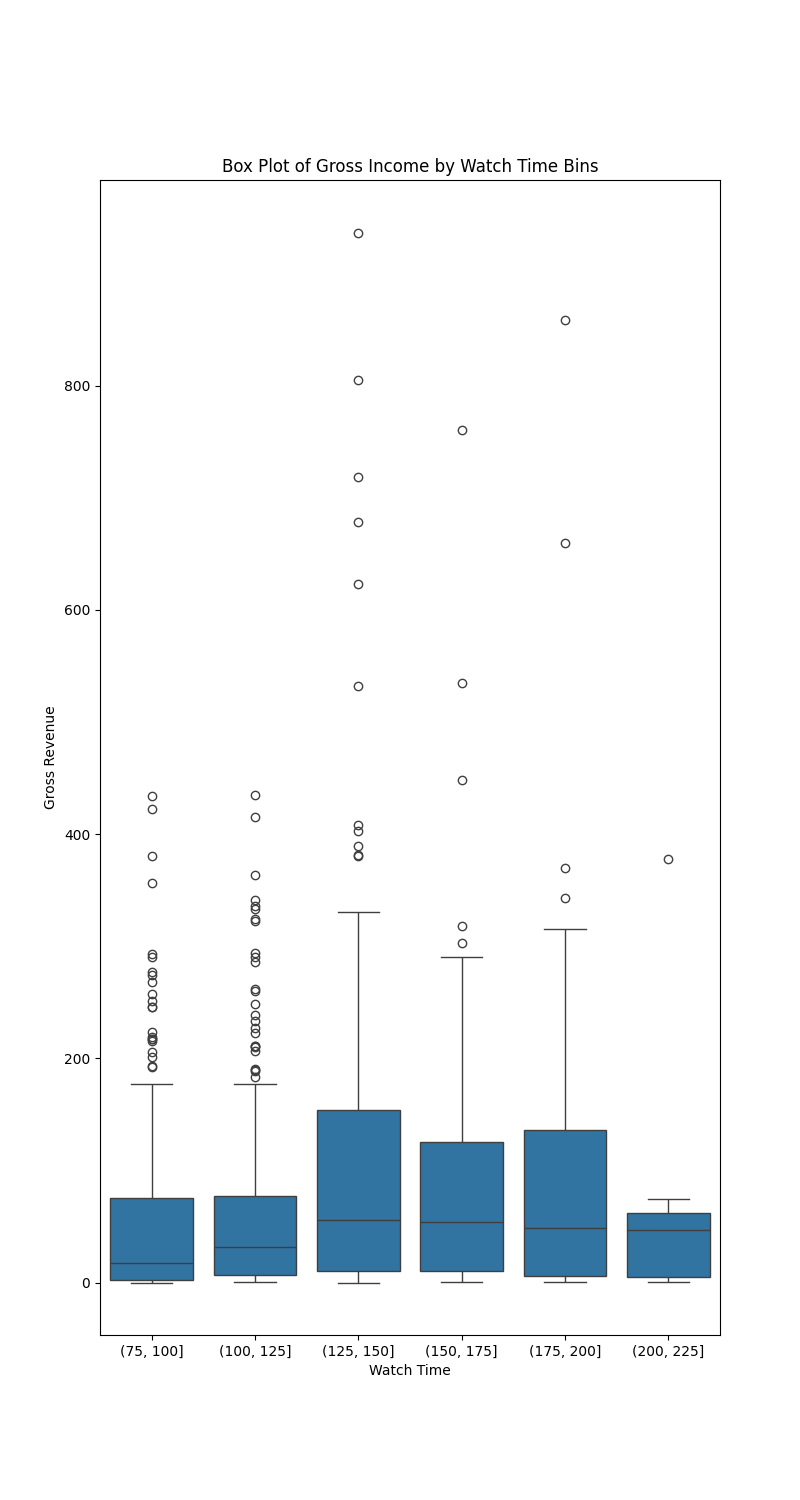
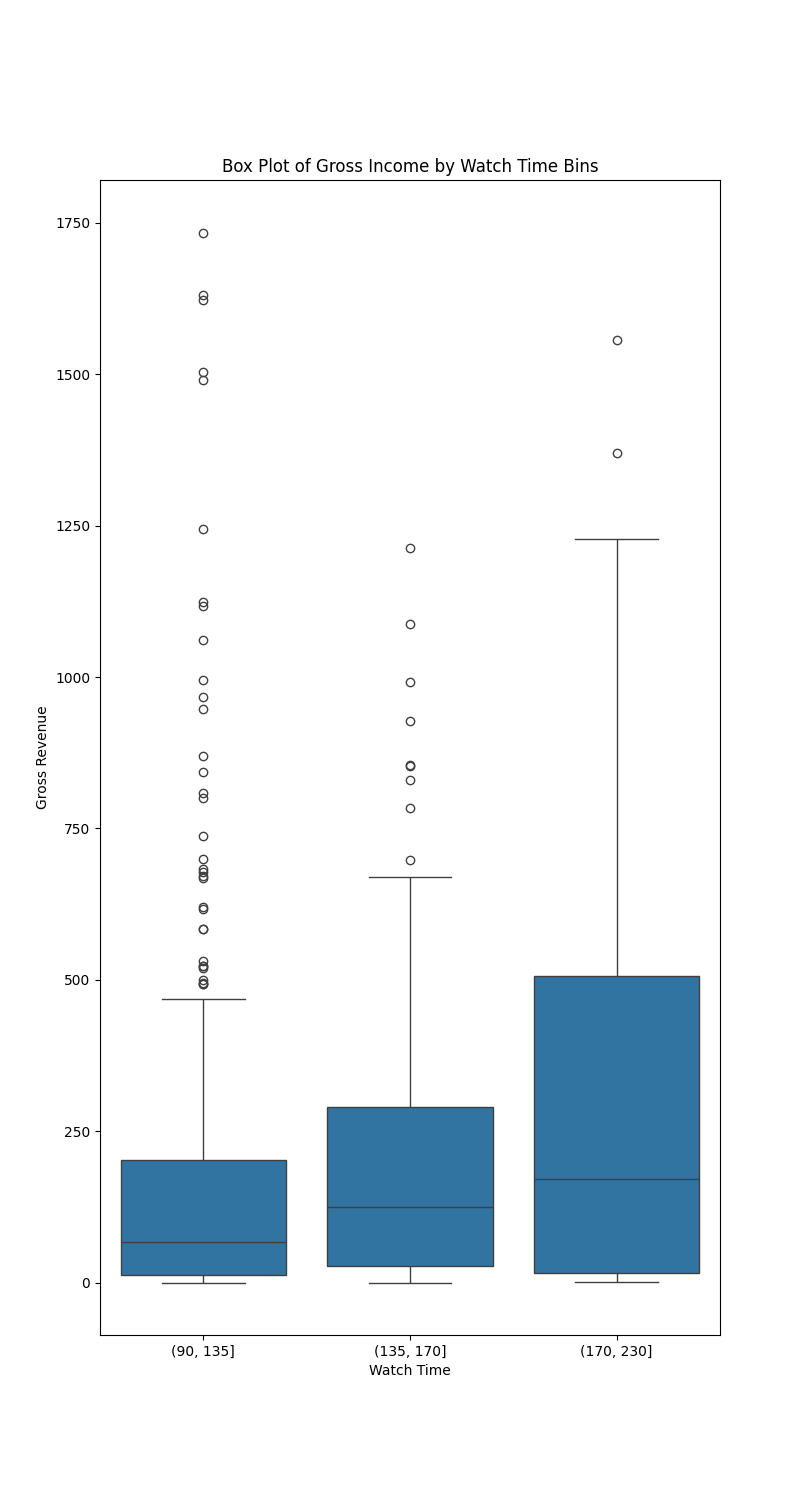
more plots

diff --git a/Problem3.py b/Problem3.py
@@ -41,11 +41,55 @@ plt.clf()
 plt.figure(figsize=(8, 15))
 
 # creating bins for my boxplot
-bins = [ 75, 100, 125,150,175,200,225]
+bins = [ 90, 135,170,230]
 bin_labels = pd.cut(df['Watch Time'], bins=bins)
-sns.boxplot(x=bin_labels, y='Gross', data=df)
+sns.violinplot(x=bin_labels, y='Gross Adjusted for Inflation (2023)', data=df)
+plt.xlabel('Watch Time')
+plt.ylabel('Gross Revenue')
+plt.title('Box Plot of Gross Income by Watch Time Bins')
+plt.savefig('adjusted/ViolinplotGrossIncome.png')
+plt.clf()
+
+bin_labels = pd.cut(df['Watch Time'], bins=bins)
+sns.boxplot(x=bin_labels, y='Gross Adjusted for Inflation (2023)', data=df)
 plt.xlabel('Watch Time')
 plt.ylabel('Gross Revenue')
 plt.title('Box Plot of Gross Income by Watch Time Bins')
 plt.savefig('adjusted/BoxplotGrossIncome.png')
+plt.clf()
+
+# creating bins for my boxplot
+bins = [ 90, 135,170,230]
+bin_labels = pd.cut(df['Watch Time'], bins=bins)
+sns.violinplot(x=bin_labels, y='Movie Rating', data=df)
+plt.xlabel('Watch Time')
+plt.ylabel('Audiance Score')
+plt.title('Box Plot of Audiance Score by Watch Time Bins')
+plt.savefig('adjusted/ViolinplotRating.png')
+plt.clf()
+
+
+bin_labels = pd.cut(df['Watch Time'], bins=bins)
+sns.boxplot(x=bin_labels, y='Movie Rating', data=df)
+plt.xlabel('Watch Time')
+plt.ylabel('Audiance Score')
+plt.title('Box Plot of Audiance Score by Watch Time Bins')
+plt.savefig('adjusted/BoxplotRating.png')
+plt.clf()
+# Grabbing the means of the bins i made for audiance score and gross income 
+avg_gross_per_bin = df.groupby(bin_labels,observed=True)['Gross Adjusted for Inflation (2023)'].mean()
+avg_audiance_score_per_bin = df.groupby(bin_labels,observed=True)['Movie Rating'].mean()
+
+#creating a bar plot for gross income vs watch time
+plt.bar(x=avg_gross_per_bin.index.astype(str), height=avg_gross_per_bin)
+plt.xlabel('Watch Time')
+plt.ylabel('Average Gross Income (Adjusted)')
+plt.title('Bar Plot of Average Gross Income')
+plt.savefig('adjusted/BarplotGross')
+plt.clf()
+plt.bar(x=avg_audiance_score_per_bin.index.astype(str), height=avg_audiance_score_per_bin)
+plt.xlabel('Watch Time')
+plt.ylabel('Average Audiance Score')
+plt.title('Bar Plot of Audiance Score')
+plt.savefig('adjusted/BarplotAudiance')
 plt.clf()
